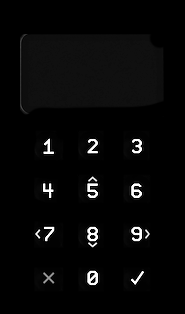
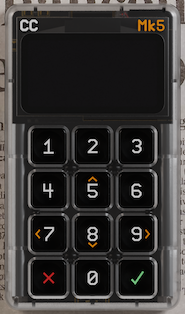
mk5 now public

diff --git a/README.md b/README.md
@@ -8,7 +8,7 @@ with the latest updates and security alerts.
 
 ![coldcard logo](https://coldcard.com/static/images/coldcard-logo-nav.png)
 
-![Mk4 coldcard picture front](https://coldcard.com/static/images/mk4.png)
+![Mk5 coldcard picture front](https://coldcard.com/static/images/mk5-front.png)
 
 ## Quick Links
 
@@ -49,14 +49,15 @@ such as Taproot or Miniscript. Our standards for releasing new Edge
 versions are lower, so we can iterate faster and get these advancements
 out to other developers.
 
-Q and Mk4 share the same code base. Individual files that are added,
+Q and Mk series share the same code base. Individual files that are added,
 or removed, can be see in differences between `shared/manifest_mk4.py`
 and `shared/manifest_q1.py`. Common files are in `shared/manifest.py`.
+Firmware built for Mk5, supports the Mk4 without any functional differences.
 
 
 ## Check-out and Setup
 
-**NOTE** This is the `master` branch and covers the latest hardware (Mk4 and Q).
+**NOTE** This is the `master` branch and covers the latest hardware (Mk and Q).
 See branch `v4-legacy` for firmware which supports only Mk3/Mk2 and earlier.
 
 Do a checkout, recursively, to get all the submodules:
@@ -232,8 +233,8 @@ Top-level dirs:
 
 - shared code between desktop test version and real-deal
 - expected to be largely in python, and higher-level
-- new code found only on the Mk4 will be listed in `manifest_mk4.py` code exclusive
-  to earlier hardware is in `manifest_mk3.py`
+- code exclusive to the Mk4 or Mk5 will be listed in `manifest_mk4.py`, and
+  to the Q will be listed in `manifest_q1.py`
 
 `unix`
 
@@ -265,7 +266,7 @@ Top-level dirs:
 `stm32/mk4-bootloader`
 `stm32/q1-bootloader`
 
-- 128k of factory-set code that you cannot change for Mk4 or Q
+- 128k of factory-set code that you cannot change
 - however, you can inspect what code is on your coldcard and compare to this.
 
 `hardware`

diff --git a/releases/ChangeLog.md b/releases/ChangeLog.md
@@ -27,6 +27,7 @@ This lists the changes in the most recent firmware, for each hardware platform.
 
 ## 5.5.0 - 2065-03-05
 
+- This release supports both the newer Mk5 hardware and existing Mk4.
 - Enhancement: Show QR of XOR-split seeds.
 
 
